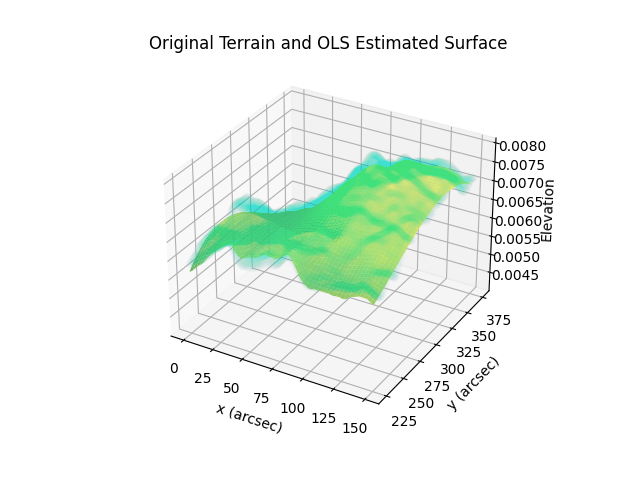
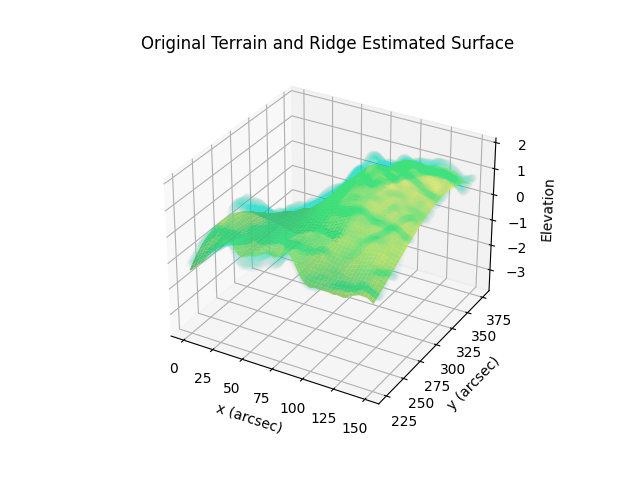
Add files via upload

diff --git a/Project1/Code/plot_real_data.py b/Project1/Code/plot_real_data.py
@@ -1,0 +1,174 @@
+import matplotlib.pyplot as plt
+import mylibrary as mlb
+import numpy as np
+from matplotlib.font_manager import FontProperties
+from imageio import imread
+from matplotlib import cm
+from mpl_toolkits.mplot3d import Axes3D
+from mpl_toolkits.axes_grid1 import make_axes_locatable
+import sklearn.linear_model as skl
+
+"""
+-----------------
+font for plots
+-----------------
+"""
+
+font = FontProperties()
+font.set_family('monospace')
+fontsize = 18
+FILEPATH = "Project1/Data/"
+FILEPATH_FIG = "Project1/Figures/"
+
+RealRidgeParams = mlb.Read(FILEPATH+"RidgeDat_real.csv")
+RealLASSOParams = mlb.Read(FILEPATH+"LASSODAT_real.csv")
+RealOLSParams = mlb.Read(FILEPATH+"OLSDAT_real.csv")
+
+# HANDLES
+RHLH = ["Degrees", "MSE", "R2", "Lambdas", "Opts"]
+OLSH = ["Degrees", "MSE (TRAIN)", "MSE (TEST)", "R2", "Opts"]
+# PARAMETER DICTIONARIES
+RP = {RHLH[j]:RealRidgeParams[j] for j in range(len(RealRidgeParams))}
+LP = {RHLH[j]:RealLASSOParams[j] for j in range(len(RealLASSOParams))}
+
+OLSP = {OLSH[j]:RealOLSParams[j] for j in range(len(RealOLSParams))}
+
+MSEOLSTRAIN = [np.log10(x) for x in OLSP["MSE (TRAIN)"]]
+MSEOLSTTEST = [np.log10(x) for x in OLSP["MSE (TEST)"]]
+
+MSERIDGE = [np.log10(x) for x in RP["MSE"]]
+MSELASSO = [np.log10(x) for x in LP["MSE"]]
+"""
+PLOT MSE AND R2 FOR OLS FOR TERRAIN MODEL
+"""
+
+
+fig, (ax1,ax2) = plt.subplots(2,1)
+
+ax1.set_title("MSE and R2 Score Under OLS Fitting", fontproperties = font)
+ax1.plot(OLSP["Degrees"], MSEOLSTRAIN, label = "MSE (TRAIN)", alpha = 0.3, linestyle = "--")
+ax1.plot(OLSP["Degrees"], MSEOLSTTEST, label = "MSE (TEST)", color = 'black', linestyle = '-')
+ax1.set_ylabel("MSE")
+ax1.plot(OLSP["Opts"][0], OLSP["Opts"][1], 'ro', label = "Optimal Fitting",)
+ax1.legend(loc = 'upper right'); ax1.grid()
+
+ax2.plot(OLSP["Degrees"], OLSP["R2"], label = "R2 Score", color = "red")
+ax2.plot(OLSP["Opts"][0], OLSP["Opts"][2], 'bo', label = "Optimal Fitting",)
+ax2.set_ylabel("R2 Score",fontproperties=font)
+ax2.set_xlabel("Fitting Degree",fontproperties=font)
+ax2.legend(loc='lower right'); ax2.grid()
+plt.savefig(FILEPATH_FIG+"OLS_MSE_AND_R2_DEG_real.png")
+#plt.show()
+
+
+"""
+PLOT MSE AND R2 FOR RIDGE TERRAIN FITTING
+"""
+
+fig, (ax1,ax2) = plt.subplots(2,1)
+ax1.set_title(r"MSE and R2 Scores as a Function of the Fitting Degree $d$",
+fontproperties = font)
+ax1.plot(RP["Degrees"], MSERIDGE,
+label = 'RIDGE', color = 'black')
+ax1.plot(LP["Degrees"], MSELASSO,
+label = 'LASSO', color = 'red', linestyle = '--')
+
+ax1.plot(RP["Opts"][0], RP["MSE"][int(RP["Opts"][0])], 'ro',
+label = "Optimal Degree: Ridge")
+ax1.plot(LP["Opts"][0], LP["MSE"][int(LP["Opts"][0])], 'bo',
+label = "Optimal Degree: LASSO")
+ax1.set_ylabel("MSE", fontproperties = font)
+ax1.grid(); ax1.legend(loc = 'upper right')
+
+ax2.plot(RP["Degrees"],RP["R2"],
+label = 'RIDGE', color = 'black')
+ax2.plot(LP["Degrees"],LP["R2"],
+label = 'LASSO', color = 'red', linestyle='--')
+ax2.set_ylabel("R2 Score", fontproperties = font)
+ax2.set_xlabel(r"Polynomial Degree, $d$", fontproperties = font)
+ax2.grid(); ax2.legend(loc = 'lower right')
+
+plt.savefig(FILEPATH_FIG+"RIDGEANDLASSO_MSE_AND_R2_real.png")
+
+
+#plt.show()
+
+"""
+PLOT ORIGINAL TERRAIN AND ESTIMATED SURFACES + COLORMAPS
+"""
+
+terrain = imread(FILEPATH+'SRTM_data_Norway_1.tif') # read terrain file
+z = terrain
+
+if z.shape[0] > z.shape[1]:
+    N = z.shape[1]
+else: N = z.shape[0]
+
+# DETERMINE SEGMENTATION SIZE
+N = 150
+
+# MAKE XY GRID
+x = np.linspace(0,N,N)
+y = np.linspace(1.5*N,2.5*N,N)
+xx,yy = np.meshgrid(x,y)
+
+# SEGMENT TERRAIN DATA
+z = z[:len(x),:len(y)]
+
+# NORMALIZE DATA
+std = np.std(z)
+z = (z - np.mean(z))/std
+
+# RECREATE DESIGN MATRICES WITH OPTIMAL FITTING DEGREES
+X_ols = mlb.create_X(x,y,int(OLSP["Opts"][0]))
+X_ridge = mlb.create_X(x,y,int(RP["Opts"][0]))
+X_lasso = mlb.create_X(x,y,int(LP["Opts"][0]))
+
+# COMPUTE OPTIMAL PARAMETERS
+XT_X = X_ridge.T @ X_ridge
+I_mat = np.identity(np.size(X_ridge[0,:]))
+b_ridge = np.linalg.inv(XT_X + RP["Opts"][1] * I_mat) @ X_ridge.T @ z
+
+# COMPUTE BEST MODEL
+z_pred = X_ridge @ b_ridge
+zols_pred = X_ols @ np.linalg.inv(X_ols.T @ X_ols) @ X_ols.T @ z
+zLASSO = skl.Lasso(LP["Opts"][1], max_iter = 100).fit(X_lasso,z)
+
+zLASSO = X_lasso @ zLASSO.coef_.T
+
+
+fig = plt.figure()
+ax = fig.gca(projection='3d')
+ax.set_title("Original Terrain and OLS Estimated Surface")
+ax.set_xlabel("x (arcsec)"); ax.set_ylabel("y (arcsec)")
+ax.set_zlabel("Elevation")
+#ax.plot_surface(xx,yy,z_pred, cmap = 'summer')
+ax.scatter(xx,yy,z, alpha = 0.01, color = 'turquoise')
+ax.plot_surface(xx,yy,zols_pred)
+#ax.plot_surface(xx,yy,zLASSO, cmap = 'summer')
+plt.savefig(FILEPATH_FIG+"LASSOTERRAIN.png")
+plt.show()
+
+# MAKE COLORMAPS
+
+fig = plt.figure(figsize=(13,5))
+ax1 = fig.add_subplot(121)
+ax1.set_title("Original Terrain Data", fontproperties = font)
+ax1.set_ylabel("Y (arcsec)"); ax1.set_xlabel("X (arcsec)")
+im1 = ax1.imshow(z, interpolation='None')
+
+divider = make_axes_locatable(ax1)
+cax = divider.append_axes('right', size='5%', pad=0.05)
+fig.colorbar(im1, cax=cax, orientation='vertical')
+
+ax2 = fig.add_subplot(122)
+ax2.set_title("Estimated Terrain Data Under OLS Regression",
+fontproperties=font)
+ax2.set_xlabel("X (arcsec)", fontproperties=font)
+im2 = ax2.imshow(zols_pred, interpolation = 'lanczos')
+
+divider = make_axes_locatable(ax2)
+cax = divider.append_axes('right', size='5%', pad=0.05)
+fig.colorbar(im2, cax=cax, orientation='vertical');
+plt.savefig(FILEPATH_FIG+"imshowterrain_OLS_trial.png")
+plt.show()

diff --git a/Project1/Code/plot_proj1.py b/Project1/Code/plot_proj1.py
@@ -113,7 +113,7 @@ plt.savefig(FILEPATH_FIG+"RIDGEANDLASSO_MSE_AND_R2.png")
 """
 PLOT ORIGINAL DATA SURFACE AND APPROXIMATED SURFACE
 """
-"""
+
 n = 100 # number of sample points (virtual data)
 
 np.random.seed(2023)
@@ -129,6 +129,29 @@ RIDGEX = mlb.create_X(x,y,int(RP["Opts"][0]))
 IDMAT = np.identity(np.size(RIDGEX[0,:]))
 RIDGEb = np.linalg.inv(RIDGEX.T @ RIDGEX + RP["Opts"][1] * IDMAT) @ RIDGEX.T @ z
 
+fig = plt.figure(figsize=(13,5))
+ax1 = fig.add_subplot(121)
+ax1.set_title("Original Franke Surface", fontproperties = font)
+ax1.set_ylabel("Y (arcsec)"); ax1.set_xlabel("X (arcsec)")
+im1 = ax1.imshow(z, interpolation='None')
+
+divider = make_axes_locatable(ax1)
+cax = divider.append_axes('right', size='5%', pad=0.05)
+fig.colorbar(im1, cax=cax, orientation='vertical')
+
+ax2 = fig.add_subplot(122)
+ax2.set_title("Estimated Franke Surface Under Ridge Regression",
+fontproperties=font)
+ax2.set_xlabel("X (arcsec)", fontproperties=font)
+im2 = ax2.imshow(RIDGEX @ RIDGEb, interpolation = 'lanczos')
+
+divider = make_axes_locatable(ax2)
+cax = divider.append_axes('right', size='5%', pad=0.05)
+fig.colorbar(im2, cax=cax, orientation='vertical');
+plt.savefig(FILEPATH_FIG+"imshowFranke_Ridge.png")
+plt.show()
+
+"""
 fig1 = plt.figure()
 ax = fig1.gca(projection='3d')
 
@@ -140,70 +163,3 @@ ax.set_ylabel("Y"); ax.set_xlabel("X"); ax.set_zlabel("Z")
 plt.savefig("OLSFrankeSurface.png")
 plt.show()
 """
-
-terrain = imread(FILEPATH+'SRTM_data_Norway_1.tif') # read terrain file
-z = terrain
-
-if z.shape[0] > z.shape[1]:
-    N = z.shape[1]
-else: N = z.shape[0]
-
-N = 150
-
-x = np.linspace(0,N,N)
-
-y = np.linspace(1.5*N,2.5*N,N)
-xx,yy = np.meshgrid(x,y)
-
-z = z[:len(x),:len(y)]
-
-norm = np.linalg.norm(z)
-
-z = z/norm
-
-print(OLSP_real["Opts"][0])
-print(RP_real["Opts"][0])
-print(OLSP_real["MSE (TEST)"][int(OLSP_real["Opts"][0])])
-print(RP_real["MSE"][int(RP_real["Opts"][0])])
-
-
-X_ols = mlb.create_X(x,y,int(OLSP_real["Opts"][0]))
-X_ridge = mlb.create_X(x,y,int(RP_real["Opts"][0]))
-XT_X = X_ridge.T @ X_ridge
-I_mat = np.identity(np.size(X_ridge[0,:]))
-b_ridge = np.linalg.inv(XT_X + RP_real["Opts"][1] * I_mat) @ X_ridge.T @ z
-
-z_pred = X_ridge @ b_ridge
-zols_pred = X_ols @ np.linalg.inv(X_ols.T @ X_ols) @ X_ols.T @ z
-fig = plt.figure()
-ax = fig.gca(projection='3d')
-ax.set_title("Original Terrain and OLS Estimated Surface")
-ax.set_xlabel("x (arcsec)"); ax.set_ylabel("y (arcsec)")
-ax.set_zlabel("Elevation")
-ax.plot_surface(xx,yy,z_pred, cmap = 'summer')
-ax.scatter(xx,yy,z, alpha = 0.01, color = 'turquoise')
-#ax.plot_surface(xx,yy,zols_pred)
-plt.savefig(FILEPATH_FIG+"RIDGETERRAIN.png")
-plt.show()
-
-fig = plt.figure(figsize=(13,5))
-ax1 = fig.add_subplot(121)
-ax1.set_title("Original Terrain Data", fontproperties = font)
-ax1.set_ylabel("Y (arcsec)"); ax1.set_xlabel("X (arcsec)")
-im1 = ax1.imshow(z, interpolation='None')
-
-divider = make_axes_locatable(ax1)
-cax = divider.append_axes('right', size='5%', pad=0.05)
-fig.colorbar(im1, cax=cax, orientation='vertical')
-
-ax2 = fig.add_subplot(122)
-ax2.set_title("Estimated Terrain Data Under OLS Regression",
-fontproperties=font)
-ax2.set_xlabel("X (arcsec)", fontproperties=font)
-im2 = ax2.imshow(zols_pred, interpolation='None')
-
-divider = make_axes_locatable(ax2)
-cax = divider.append_axes('right', size='5%', pad=0.05)
-fig.colorbar(im2, cax=cax, orientation='vertical');
-plt.savefig(FILEPATH_FIG+"imshowterrain_ols.png")
-plt.show()

diff --git a/Project1/Code/main.py b/Project1/Code/main.py
@@ -1,4 +1,4 @@
-import mylibrary as mlb
+import mylibrary as mlb # AUTHORS LIBRARY OF FUNCTION CALLS
 import numpy as np
 import pandas as pd
 from tabulate import tabulate
@@ -6,6 +6,7 @@ import os
 from imageio import imread
 import matplotlib.pyplot as plt
 
+### MAIN ###
 
 n = 100 # number of sample points (virtual data)
 d = 10 # number of fitting degree trials (OLS)
@@ -42,9 +43,9 @@ xx,yy = np.meshgrid(x,y)
 
 z = z[:len(x),:len(y)]
 
-norm = np.linalg.norm(z)
+std = np.std(z)
 
-z = z/norm
+z = (z - np.mean(z))/std
 #"""
 
 # DICTIONARIES FOR STORING VARIABLES (OLS)
@@ -88,7 +89,7 @@ bestR2
 # WRITE OLS DATA TO FILE FOR PLOTTING/TABULATING
 mlb.Write('OLSDat_real', dataOLS)
 
-"""
+#"""
 # DICTIONARIES FOR STORING VECTORS OF VARIABLES (RIDGE)
 MSERIDGE = {j:[] for j in range(1,maxd+1)}
 MSERIDGEPredict = {j:[] for j in range(1,maxd+1)}
@@ -104,11 +105,9 @@ for i in range(1,maxd+1):
 
 paramsRidge = mlb.FIND_BEST_PARAMS("RIDGE", MSERIDGEPredict, R2RIDGE, lambdas)
 
-print("Opt Degree, Lowest MSE and Opt Hyperparameter Under Ridge Regression:")
-print(paramsRidge[-2], paramsRidge[1][paramsRidge[-2]], paramsRidge[-1])
 # WRITE RIDGE DATA TO FILE FOR PLOTTING/TABULATING
 mlb.Write("RidgeDat_real", paramsRidge)
-"""
+#"""
 #"""
 # DICTIONARIES FOR STORING VECTORS OF VARIABLES (LASSO)
 MSELASSO = {j:[] for j in range(1,maxd+1)}
